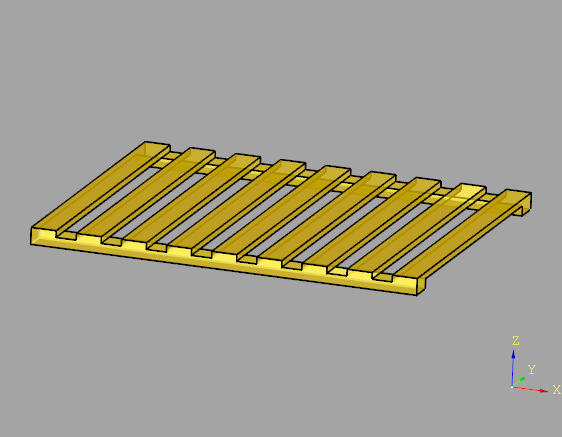
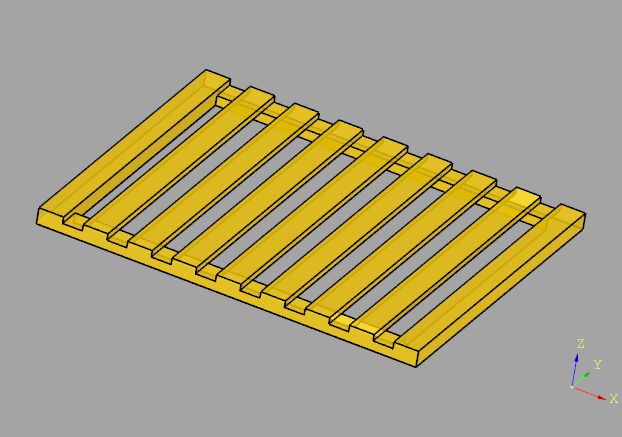
complete bed

Changed region(s): [[0.0302, 0.1487, 0.968, 0.833], [0.9075, 0.7735, 0.968, 0.8924], [0.9377, 0.8924, 0.9982, 0.9222]]

diff --git a/student-bed.py b/student-bed.py
@@ -45,6 +45,9 @@ measures ={
 measures["stringer.height"] = measures["@thickness.plumb"]
 measures["stringer.width"]  = measures["@side.length"]
 measures["stringer.length"] = measures["mattress.length"]*0.5
+measures["ledger.height"]   = measures["@thickness.plumb"]
+measures["ledger.width"]    = measures["@side.length"]
+measures["ledger.length"]   = measures["mattress.width"]-2*measures["stringer.width"]
 measures["batten.height"]   = measures["@thickness.slim"]
 measures["batten.width"]    = measures["@side.length"]
 measures["batten.length"]   = measures["mattress.width"]
@@ -78,6 +81,12 @@ class SimpleBed:
         stringer = cq.Workplane("XY").box(sl,sw,sh)
         #show_object(stringer,name="stringer",options={"alpha":0.2,"color":(255,170,0)})
 
+        lh = self.measures["ledger.height"]
+        lw = self.measures["ledger.width"]
+        ll = self.measures["ledger.length"]
+        ledger = cq.Workplane("XY").box(lw,ll,lh)
+        #show_object(ledger,name="ledger",options={"alpha":0.2,"color":(255,170,0)})
+
         bh = self.measures["batten.height"]
         bw = self.measures["batten.width"]
         bl = self.measures["batten.length"]
@@ -90,17 +99,23 @@ class SimpleBed:
         #show_object(jamb,name="jamb",options={"alpha":0.2,"color":(255,170,0)})
 
         stringer_moved = stringer.translate((600,0,250))
+        ledger_moved   = ledger.translate((0,500,250))
         batten_moved   = batten.translate((0,500,350))
-        parts = jamb.union(stringer_moved).union(batten_moved)
+        parts = jamb.union(stringer_moved).union(ledger_moved).union(batten_moved)
         #show_object(parts,name="parts",options={"alpha":0.2,"color":(255,170,0)})
 
         zo = 0.5*(self.measures["stringer.height"]+self.measures["batten.height"])
         yo = 0.5*(self.measures["mattress.width"]-self.measures["stringer.width"])
         xo = 0.5*(self.measures["stringer.length"]-self.measures["batten.width"])
         skew = self.measures["batten.width"]+self.measures["batten.gap"]
+        lift = 0.5*self.measures["stringer.height"]+self.measures["jamb.length"]
         stringer_front = stringer.translate((0,+yo,0))
         stringer_back  = stringer.translate((0,-yo,0))
+        ledger_left    = ledger.translate((-xo,0,0))
+        ledger_right   = ledger.translate((+xo,0,0))
         duckboard = stringer_front.union(stringer_back)
+        duckboard = duckboard.union(ledger_left)
+        duckboard = duckboard.union(ledger_right)
         duckboard = duckboard.union(batten.translate((0,0,zo)))        # middle
         duckboard = duckboard.union(batten.translate((-xo,0,zo)))      # left most
         duckboard = duckboard.union(batten.translate((+xo,0,zo)))      # right most
@@ -110,9 +125,23 @@ class SimpleBed:
         duckboard = duckboard.union(batten.translate((+2*skew,0,zo)))  # 2 Skew right
         duckboard = duckboard.union(batten.translate((-3*skew,0,zo)))  # 3 skew left
         duckboard = duckboard.union(batten.translate((+3*skew,0,zo)))  # 3 skew right
-        show_object(duckboard,name="duckbboard",options={"alpha":0.2,"color":(255,170,0)})
+        duckboard = duckboard.translate((0,0,lift))
+        #show_object(duckboard,name="duckbboard",options={"alpha":0.2,"color":(255,170,0)})
 
-        self.model = parts
+        uplift = 0.5*self.measures["jamb.length"]
+        half = duckboard
+        half = half.union(jamb.translate((-xo,-yo,uplift)))  # back  left
+        half = half.union(jamb.translate((+xo,-yo,uplift)))  # back  right
+        half = half.union(jamb.translate((-xo,+yo,uplift)))  # front left
+        half = half.union(jamb.translate((+xo,+yo,uplift)))  # front right
+        #show_object(half,name="half",options={"alpha":0.2,"color":(255,170,0)})
+
+        align = 0.5*self.measures["stringer.length"]
+        bed  = half.translate((-align,0,0))
+        bed  = bed.union(half.translate((+align,0,0)))
+        show_object(bed,name="bed",options={"alpha":0.2,"color":(255,170, 0)})
+
+        self.model = bed
         return
 
     pass

diff --git a/README.md b/README.md
@@ -2,7 +2,7 @@
 
 # Student-Bed
 
-![appetizer](docs/duckboard.png)
+![appetizer](docs/bed.png)
 
 # Preamble
 
@@ -160,13 +160,22 @@ The CQ-Editor is primarily used as a model-viewer. In the View-menu turn off all
 
 # Mile-Stone #8: Let the Model grow
 
-The design is kept simple. The duckboard is split into 2 halves (not visible at the moment). In total we need only 3 different parts:
+The design is kept simple. The duckboard is split into 2 halves (not visible at the moment). In total we need only 4 different parts:
 * jambs 
 * stringers
+* ledgers
 * battens
 
 [parts](docs/parts.png)
 
-All battens are loaded on top of the stringers.
+All battens are loaded on top of the stringers and ledgers.
 
 [duckboard](docs/duckboard.png)
+
+Putting a jamb below each corner and the half bed is ready.
+
+[half](docs/half.png)
+
+And both halves together make the complete bed. Viola.
+
+[bed](docs/bed.png)
